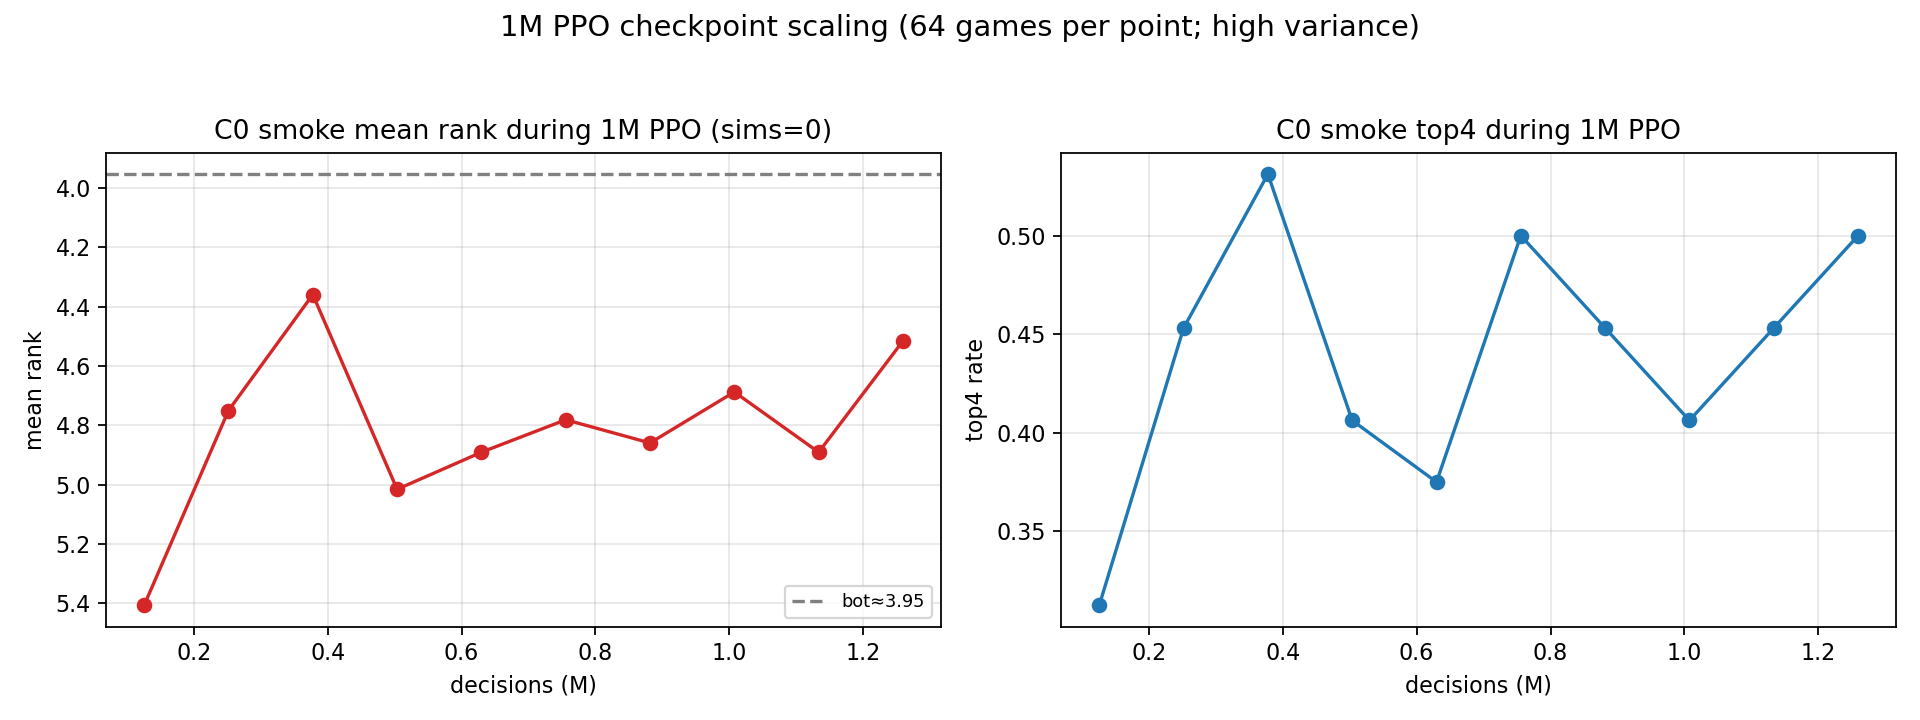
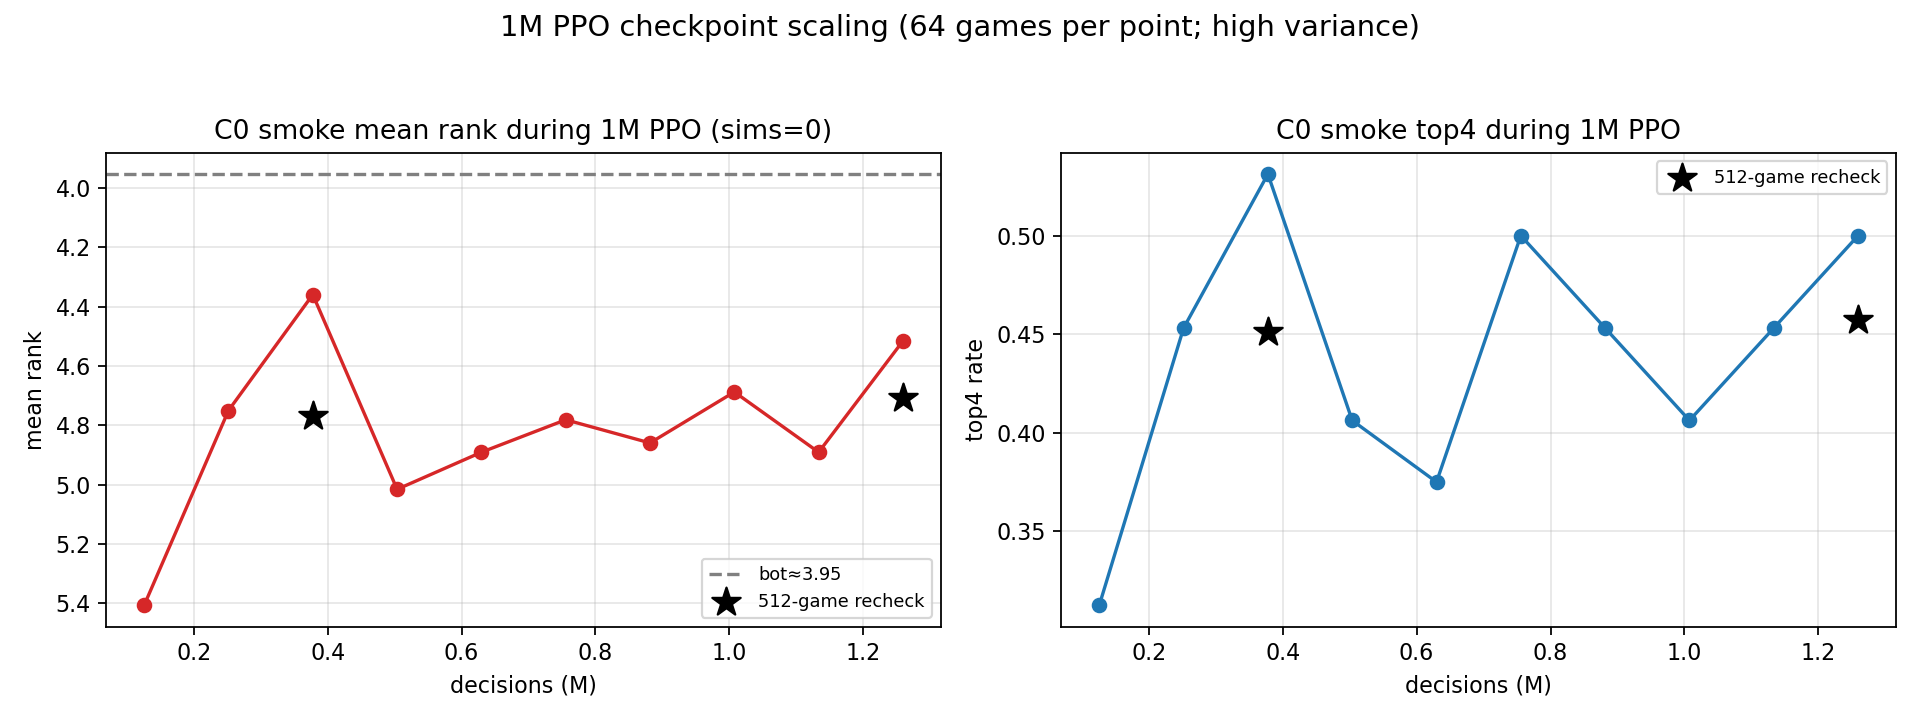
docs(training): 512-game recheck of 0.378M checkpoint; scaling flat
- 64-game 4.36 was noise; 512 recheck 4.769 (bot 4.535)
- final 1.259M 512-game 4.709 (bot 4.506)
- no checkpoint passes C0; 64-game selection invalid

diff --git a/scripts/plot_scaling_1m.py b/scripts/plot_scaling_1m.py
@@ -23,6 +23,14 @@ def main() -> int:
                      "mean": r.get("model_mean_rank"), "bot": r.get("bot_mean_rank"),
                      "top4": r.get("model_top4")})
     rows.sort(key=lambda r: r["step"])
+    extra = []
+    for path, dec in [("/tmp/c0_step3_512.json", 3 * 125944.7),
+                      ("/tmp/c0_1m_s0_512.json", 10 * 125944.7)]:
+        if os.path.isfile(path):
+            d = json.load(open(path, encoding="utf-8"))
+            r = ((d.get("panels") or [{}])[0] if d.get("panels") else d.get("panel0") or {})
+            extra.append({"decisions": dec, "mean": r.get("model_mean_rank"),
+                          "top4": r.get("model_top4")})
     fig, ax = plt.subplots(1, 2, figsize=(12, 4.5))
     x = [r["decisions"] / 1e6 for r in rows]
     ax[0].plot(x, [r["mean"] for r in rows], "o-", color="#d62728")
@@ -33,12 +41,21 @@ def main() -> int:
     ax[0].set_ylabel("mean rank")
     ax[0].set_title("C0 smoke mean rank during 1M PPO (sims=0)")
     ax[0].invert_yaxis()
+    if extra:
+        ax[0].scatter([e["decisions"] / 1e6 for e in extra],
+                      [e["mean"] for e in extra], marker="*", s=180,
+                      color="black", label="512-game recheck", zorder=5)
     ax[0].grid(alpha=.3)
     ax[0].legend(fontsize=8)
     ax[1].plot(x, [r["top4"] for r in rows], "o-", color="#1f77b4")
     ax[1].set_xlabel("decisions (M)")
     ax[1].set_ylabel("top4 rate")
     ax[1].set_title("C0 smoke top4 during 1M PPO")
+    if extra:
+        ax[1].scatter([e["decisions"] / 1e6 for e in extra],
+                      [e["top4"] for e in extra], marker="*", s=180,
+                      color="black", label="512-game recheck", zorder=5)
+        ax[1].legend(fontsize=8)
     ax[1].grid(alpha=.3)
     fig.suptitle("1M PPO checkpoint scaling (64 games per point; high variance)", fontsize=13)
     fig.tight_layout(rect=[0, 0, 1, 0.94])

diff --git a/docs/MULTISTAGE_TRAINING.md b/docs/MULTISTAGE_TRAINING.md
@@ -184,3 +184,11 @@
 - 曲线**非单调**，0.38M 最好、0.50M 又退化；
 - 每个点只有 64 局，噪声大；最终 1.259M 用 512 局为 4.709；
 - 结论：**BC scaling 明确，PPO 1M scaling 不明确**；不能仅凭 64 局曲线说“scaling 明确”。
+
+### 512 局复核关键 checkpoint
+
+- 64 局最优的 0.378M checkpoint，用 512 局复测：mean **4.7695**，bot 4.535，top4 45.1%，CI [-0.031, 0.490]；
+- 1.259M 最终模型：mean **4.709**，bot 4.506，top4 45.7%，CI [-0.039, 0.459]；
+- 64 局的 4.36 是**噪声**；1M 内没有 checkpoint 能通过 C0 gate。
+
+结论：**PPO 1M 的 scaling 不成立**，不要用 64 局曲线选 checkpoint。
